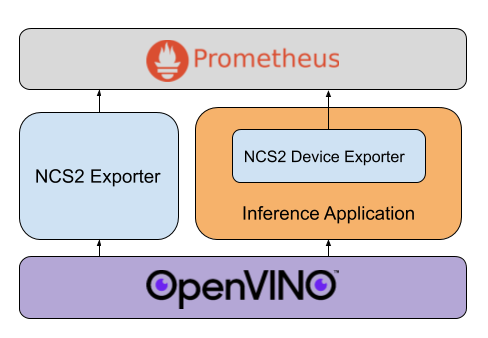
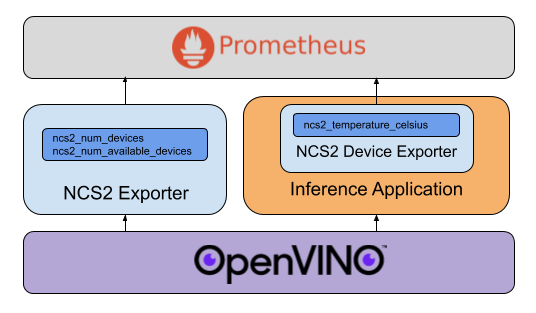
Update overview diagram to show metric sources

diff --git a/README.md b/README.md
@@ -55,7 +55,7 @@ split into two parts:
 - The main exporter that provides an overview of NCS2 devices on the system (discoverable/available)
 - A device metric exporter to be instantiated within each NCS2-enabled inference application independently
 
-A high-level overview of the expected interactions and integration points is as follows:
+A high-level overview of the expected interactions, metric sources, and integration points is as follows:
 
 ![NCS2 Exporter Overview](overview.png)
 
@@ -116,9 +116,8 @@ agreement No 825480 ([SODALITE]).
 
 ## License
 
-`ncs2-exporter` is licensed under the terms of the Apache 2.0 license, the full
+`prometheus_ncs2_exporter` is licensed under the terms of the Apache 2.0 license, the full
 version of which can be found in the LICENSE file included in the distribution.
 
-[tracker]: https://github.com/adaptant-labs/ncs2-exporter/issues
-[adaptant/ncs2-exporter]: https://hub.docker.com/repository/docker/adaptant/ncs2-exporter
+[tracker]: https://github.com/adaptant-labs/prometheus_ncs2_exporter/issues
 [SODALITE]: https://sodalite.eu
